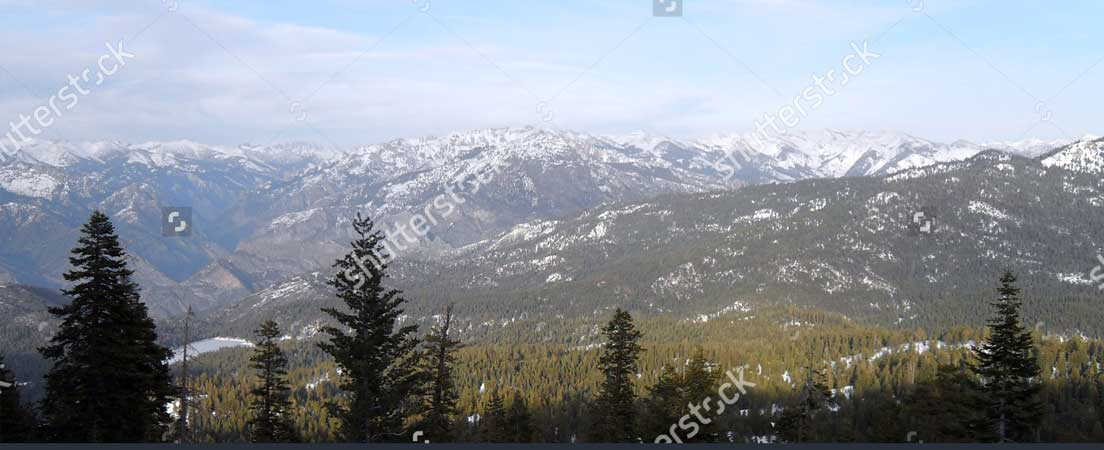
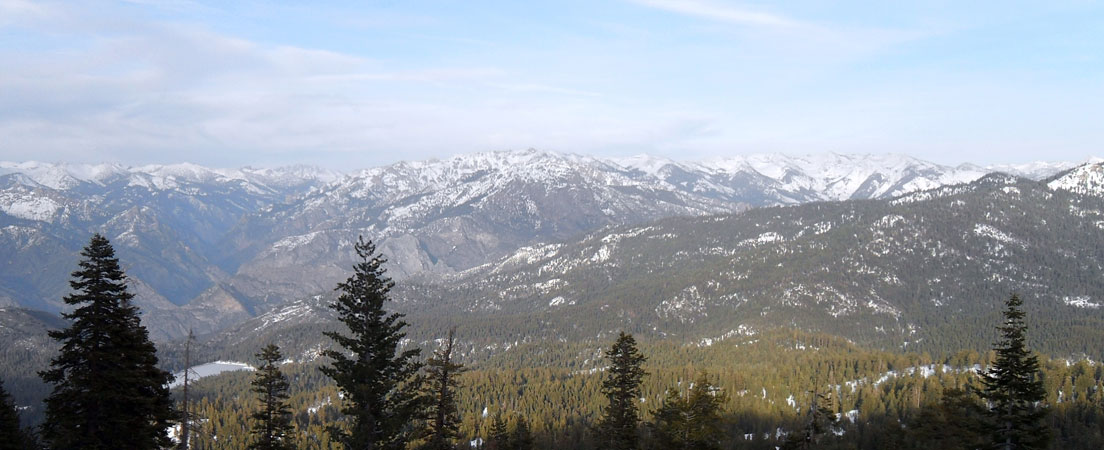
visalia image

diff --git a/css/main.css b/css/main.css
@@ -635,8 +635,8 @@ td {
 /* Contact Page */
 
 .contact {
-	background: url(../images/visalia-ca.jpg) 100% 27% no-repeat;
-	background-size: 140%;
+	background: url(../images/visalia-ca.jpg) 100% 35% no-repeat;
+	background-size: 100%;
 }
 
 .packaging {
